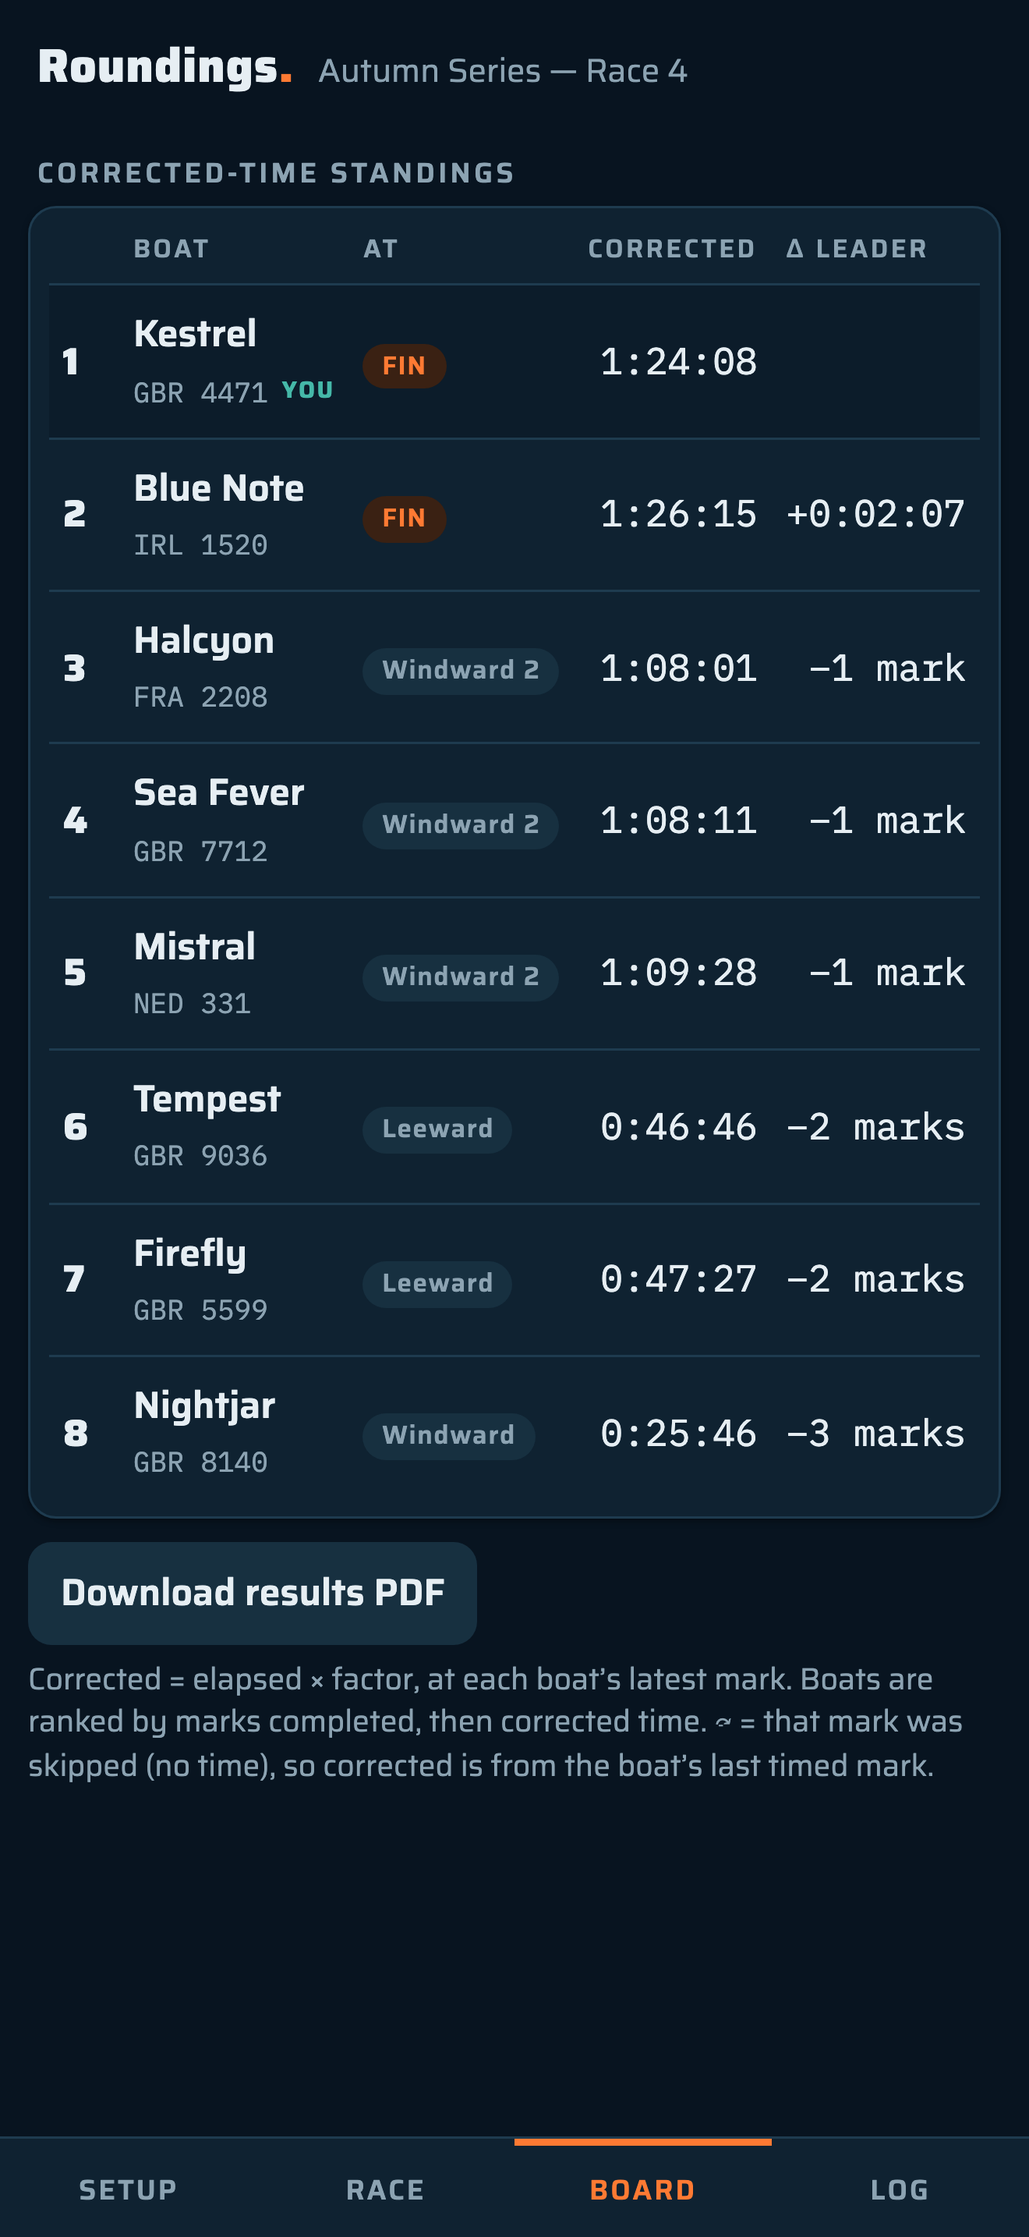
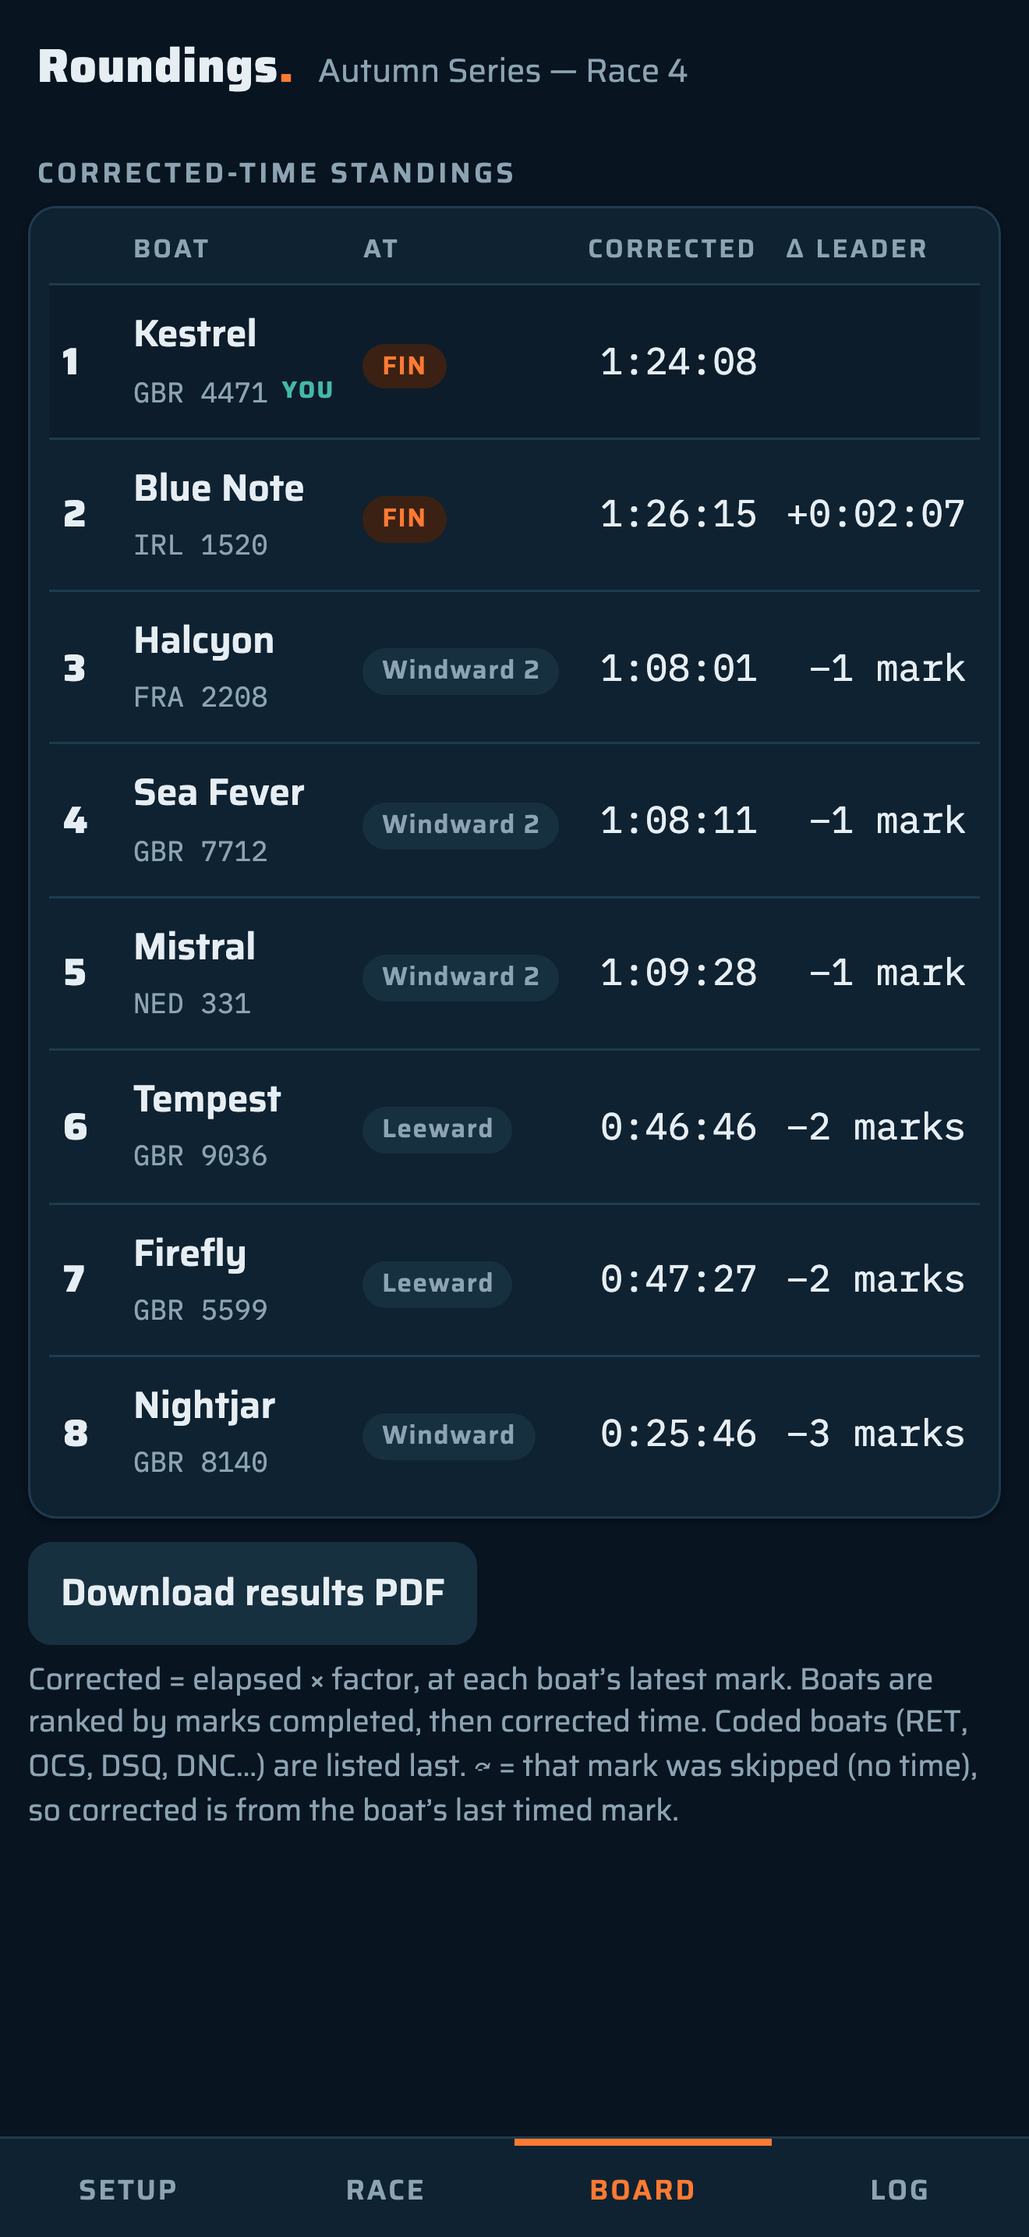
Scoring codes: RET, OCS, DSQ, DNC, DNS, DNF
- Code button on the race screen arms a mode where tapping any boat
  (including the own-boat PING) opens a chooser with the RRS codes;
  boats can also be coded from the edit dialog in Setup
- Coded boats rank behind every boat still racing, ordered DNC, DNS,
  OCS, RET, DNF, DSQ; the board shows the code instead of a corrected
  time, taps on them are refused, and Skip all leaves them alone
- CSV gains a Code column; PDF prints the code with its meaning
- store screenshots regenerated; sw CACHE v9

Claude-Session: https://claude.ai/code/session_01XpLpy3J2gh8zgNV43aJB8M

Changed region(s): [[0.0311, 0.7448, 0.9318, 0.8379]]

diff --git a/index.html b/index.html
@@ -114,6 +114,17 @@
   .boatbtn.done{opacity:.55}
   .boatbtn.done .next{color:var(--good)}
   .boatbtn.skipping{border:1px dashed var(--accent);background:var(--accent-soft)}
+  .boatbtn.coded{opacity:.6}
+  .boatbtn.coded .next{color:var(--bad)}
+  .boatbtn.coding{border:1px dashed var(--bad);background:var(--bad-soft);opacity:1}
+  #codeBtn.armed{background:var(--bad);color:#fff;border-color:var(--bad)}
+  #codeBanner{display:flex;align-items:center;gap:8px;flex-wrap:wrap;background:var(--bad-soft);
+    border:1px dashed var(--bad);border-radius:12px;padding:10px 12px;margin-bottom:10px;font-size:13px}
+  .chipm.code{background:var(--bad-soft);color:var(--bad)}
+  .codegrid{display:grid;grid-template-columns:1fr 1fr;gap:8px;margin:4px 0 12px}
+  .codegrid .btn{display:flex;flex-direction:column;align-items:flex-start;gap:2px;padding:10px 12px;text-align:left;font-size:15px}
+  .codegrid .btn small{font-weight:400;font-size:11px;color:var(--muted)}
+  .codegrid .btn.primary small{color:inherit;opacity:.85}
   .racefoot{display:flex;gap:8px;margin-top:12px}
   #skipBtn.armed{background:var(--accent);color:var(--accent-ink);border-color:var(--accent)}
   #skipBanner{display:flex;align-items:center;gap:8px;flex-wrap:wrap;background:var(--accent-soft);
@@ -318,6 +329,7 @@
         </div>
         <div class="grow"></div>
         <button class="btn quiet" id="skipBtn">Skip</button>
+        <button class="btn quiet" id="codeBtn">Code</button>
         <button class="btn quiet" id="undoBtn">Undo tap</button>
       </div>
       <div id="fleetStarts" hidden></div>
@@ -345,6 +357,10 @@
           <span class="grow">Skip mode — tapping a boat moves it past its next mark <b>without a time</b>. Use it when a rounding wasn't recorded.</span>
           <button class="btn" id="skipAllBtn">Skip all</button>
           <button class="btn primary" id="skipDoneBtn">Done</button>
+        </div>
+        <div id="codeBanner" hidden>
+          <span class="grow">Scoring code — tap a boat to mark it <b>RET, OCS, DSQ, DNC, DNS or DNF</b>. Coded boats are scored behind every boat still racing.</span>
+          <button class="btn primary" id="codeDoneBtn">Done</button>
         </div>
         <button id="pingBtn"></button>
         <div class="fleetgrid" id="fleetGrid"></div>
@@ -403,6 +419,7 @@
     <div><label class="f" for="bSail">Sail no.</label><input type="text" id="bSail"></div>
     <div><label class="f" for="bRating" id="bRatingLbl">Rating</label><input type="number" id="bRating" inputmode="decimal" step="0.0001"></div>
     <div class="full" id="bFleetWrap" hidden><label class="f" for="bFleet">Fleet</label><select id="bFleet"></select></div>
+    <div class="full"><label class="f" for="bCode">Scoring code</label><select id="bCode"></select></div>
     <div class="full"><label class="row" style="gap:6px"><input type="checkbox" id="bOwn"> This is my boat</label></div>
   </div>
   <div class="dfoot">
@@ -411,6 +428,16 @@
       <button class="btn quiet" id="bCancel">Cancel</button>
       <button class="btn primary" id="bSave">Save</button>
     </span>
+  </div>
+</dialog>
+
+<!-- Scoring code -->
+<dialog id="codeDlg">
+  <h3 id="codeDlgTitle">Scoring code</h3>
+  <div class="codegrid" id="codeGrid"></div>
+  <div class="dfoot">
+    <button class="btn danger" id="codeClear">Clear code</button>
+    <span><button class="btn quiet" id="codeCancel">Cancel</button></span>
   </div>
 </dialog>
 
@@ -475,6 +502,10 @@ const ORC_FIELDS={
        ["TND_Inshore_Low","Triple Number Windward/Leeward Low"],["TND_Inshore_Medium","Triple Number Windward/Leeward Medium"],["TND_Inshore_High","Triple Number Windward/Leeward High"]]
 };
 const ORC_CTYPES={INTL:'International',CLUB:'Club',NSIN:'Non Spinnaker International',NSCL:'Non Spinnaker Club',DHIN:'Double Handed International',DHCL:'Double Handed Club'};
+/* Racing Rules of Sailing scoring abbreviations (Appendix A). A coded boat ranks behind every boat still racing. */
+const CODES=[['DNC','Did not come to the starting area'],['DNS','Did not start'],['OCS','On the course side at the start'],['RET','Retired'],['DNF','Did not finish'],['DSQ','Disqualified']];
+const codeLabel=c=>(CODES.find(x=>x[0]===c)||[c,c])[1];
+const codeRank=c=>{ const i=CODES.findIndex(x=>x[0]===c); return i<0?CODES.length:i; };
 const CERT_FIELDS=[...new Set(Object.values(ORC_FIELDS).flat().map(x=>x[0]))]; // every scoring figure we keep per boat, so the fleet can be re-rated after the race
 
 function newRace(name){
@@ -539,9 +570,11 @@ function computeBoard(fleetId){
     const timed=[...rds].reverse().find(x=>!x.skipped)||null;
     let corr=null,noDist=false;
     if(timed){ const c=correctedAt(r,b,timed); if(c&&typeof c==='object'){corr=c.raw;noDist=true;} else corr=c; }
-    return { boat:b, count:rds.length, last, timed, corr, noDist, finished: last? last.markIdx>=finIdx : false };
+    return { boat:b, code:b.code||null, count:rds.length, last, timed, corr, noDist, finished: last? last.markIdx>=finIdx : false };
   });
   rows.sort((a,b)=>{
+    if(!!a.code!==!!b.code) return a.code?1:-1;
+    if(a.code&&b.code){ const d=codeRank(a.code)-codeRank(b.code); return d||a.boat.name.localeCompare(b.boat.name); }
     if(a.count!==b.count) return b.count-a.count;
     if(a.corr==null&&b.corr==null) return a.boat.name.localeCompare(b.boat.name);
     if(a.corr==null) return 1; if(b.corr==null) return -1;
@@ -554,7 +587,7 @@ function computeBoard(fleetId){
 let activeTab='setup';
 function setTab(t){
   activeTab=t;
-  if(t!=='race') skipMode=false;
+  if(t!=='race'){ skipMode=false; codeMode=false; }
   document.querySelectorAll('.view').forEach(v=>v.classList.toggle('active',v.id==='view-'+t));
   document.querySelectorAll('nav.tabs button').forEach(b=>b.classList.toggle('active',b.dataset.tab===t));
   renderAll();
@@ -597,7 +630,7 @@ function renderSetup(){
   $('#boatsList').innerHTML=r.boats.map(b=>{
     const fl=fs?boatFleet(r,b):null;
     return `<div class="item">
-      <span class="nm">${esc(b.name)} ${b.own?'<span class="ownflag">MY BOAT</span>':''}</span>
+      <span class="nm">${esc(b.name)} ${b.own?'<span class="ownflag">MY BOAT</span>':''}${b.code?' <span class="chipm code">'+b.code+'</span>':''}</span>
       <span class="meta mono">${fl?esc(fl.name)+' · ':''}${esc(b.sail||'')} · ${b.rating!=null?b.rating:'no rating'}</span>
       <button class="iconb" data-bedit="${b.id}" title="Edit">✎</button>
     </div>`;
@@ -642,14 +675,18 @@ function renderRace(){
   if(started){
     $('#skipBanner').hidden=!skipMode;
     $('#skipBtn').classList.toggle('armed',skipMode);
+    $('#codeBanner').hidden=!codeMode;
+    $('#codeBtn').classList.toggle('armed',codeMode);
     const own=r.boats.find(b=>b.own);
     const ping=$('#pingBtn');
     if(own){
       const rds=boatRoundings(r,own.id); const next=rds.length;
       const fin=next>=r.marks.length;
       const ownStart=startFor(r,own);
-      ping.disabled=fin||ownStart==null;
-      ping.innerHTML=fin?`${esc(own.name)} finished ✓`
+      ping.disabled=codeMode?false:(!!own.code||fin||ownStart==null);
+      ping.innerHTML=codeMode?`Code — ${esc(own.name)}<small>${own.code?own.code+' · tap to change':'tap to set RET, OCS, DSQ…'}</small>`
+        :own.code?`${esc(own.name)} — ${own.code}<small>${esc(codeLabel(own.code))}</small>`
+        :fin?`${esc(own.name)} finished ✓`
         :ownStart==null?`${esc(own.name)} — waiting for ${esc(boatFleet(r,own)?.name||'start')}`
         :skipMode?`Skip ${esc(markLabel(r,next))} — ${esc(own.name)}`
         :`Ping — ${esc(own.name)}<small>next: ${esc(markLabel(r,next))}</small>`;
@@ -663,10 +700,11 @@ function renderRace(){
       const last=rds[rds.length-1];
       const fl=fs?boatFleet(r,b):null;
       const lastTxt=last?`${esc(markLabel(r,last.markIdx))} ${last.skipped?'skipped':fmtDur(last.t-bStart)}`:'';
-      return `<button class="boatbtn ${fin?'done':''} ${skipMode&&!fin&&!waiting?'skipping':''}" data-tap="${b.id}" ${fin||waiting?'disabled':''}>
+      const coded=!!b.code;
+      return `<button class="boatbtn ${fin&&!coded?'done':''} ${coded?'coded':''} ${skipMode&&!fin&&!waiting&&!coded?'skipping':''} ${codeMode?'coding':''}" data-tap="${b.id}" ${!codeMode&&(fin||waiting||coded)?'disabled':''}>
         <span class="bn">${esc(b.name)}</span>
         <span class="bs">${fl?esc(fl.name)+' · ':''}${esc(b.sail||'')}${lastTxt?' · '+lastTxt:''}</span>
-        <span class="next">${fin?'Finished ✓':waiting?'awaiting start':(skipMode?'⤼ skip ':'→ ')+esc(markLabel(r,next))}</span></button>`;
+        <span class="next">${codeMode?'⚑ '+(coded?b.code+' · change':'set code'):coded?b.code+' — '+esc(codeLabel(b.code)):fin?'Finished ✓':waiting?'awaiting start':(skipMode?'⤼ skip ':'→ ')+esc(markLabel(r,next))}</span></button>`;
     }).join('');
   }
   if(tick) clearInterval(tick);
@@ -741,20 +779,20 @@ function updateClock(){
 }
 
 function boardTableHTML(r,rows){
-  let leaderCorr=null,leaderCount=null,leaderMark=null;
+  let leader=null;
   const body=rows.map((x,i)=>{
-    if(i===0){leaderCorr=x.corr;leaderCount=x.count;leaderMark=x.timed?x.timed.markIdx:null;}
+    if(!leader&&!x.code) leader=x;
     let delta='';
-    if(i>0&&x.corr!=null&&leaderCorr!=null){
-      if(x.count!==leaderCount) delta='−'+(leaderCount-x.count)+' mark'+(leaderCount-x.count>1?'s':'');
-      else if(x.timed&&x.timed.markIdx===leaderMark) delta='+'+fmtDur(x.corr-leaderCorr);
+    if(!x.code&&leader&&x!==leader&&x.corr!=null&&leader.corr!=null){
+      if(x.count!==leader.count) delta='−'+(leader.count-x.count)+' mark'+(leader.count-x.count>1?'s':'');
+      else if(x.timed&&leader.timed&&x.timed.markIdx===leader.timed.markIdx) delta='+'+fmtDur(x.corr-leader.corr);
     }
     const mk=x.last? `<span class="chipm ${x.finished?'fin':''}">${(x.finished?'FIN':esc(markLabel(r,x.last.markIdx)))+(x.last.skipped?' ⤼':'')}</span>`:'<span class="chipm">—</span>';
     return `<tr class="${x.boat.own?'own':''}">
-      <td class="pos">${x.last?i+1:''}</td>
+      <td class="pos">${x.last&&!x.code?i+1:''}</td>
       <td class="name"><span class="bname">${esc(x.boat.name)}</span><br><span class="bsail mono">${esc(x.boat.sail||'')}</span></td>
       <td>${mk}</td>
-      <td class="ct mono">${x.corr!=null?fmtDur(x.corr)+(x.noDist?'*':''):'—'}</td>
+      <td class="ct mono">${x.code?'<span class="chipm code" title="'+esc(codeLabel(x.code))+'">'+x.code+'</span>':x.corr!=null?fmtDur(x.corr)+(x.noDist?'*':''):'—'}</td>
       <td class="dt mono">${delta}</td></tr>`;
   }).join('');
   return `<table class="board"><thead><tr><th></th><th>Boat</th><th>At</th><th class="ct">Corrected</th><th class="dt">Δ leader</th></tr></thead><tbody>${body}</tbody></table>`;
@@ -780,7 +818,7 @@ function renderBoard(){
   $('#boardHint').textContent =
     (r.scoring==='tot'?'Corrected = elapsed × factor, at each boat’s latest mark. ':'Corrected = elapsed − rating × cumulative NM. ')+
     (fs?'Each fleet is scored from its own start. ':'')+
-    'Boats are ranked by marks completed, then corrected time. ⤼ = that mark was skipped (no time), so corrected is from the boat’s last timed mark.'+(anyNoDist?' *No distance set for that mark — showing raw elapsed.':'');
+    'Boats are ranked by marks completed, then corrected time. Coded boats (RET, OCS, DSQ, DNC…) are listed last. ⤼ = that mark was skipped (no time), so corrected is from the boat’s last timed mark.'+(anyNoDist?' *No distance set for that mark — showing raw elapsed.':'');
 }
 
 function renderLog(){
@@ -916,6 +954,8 @@ function openBoatDlg(id){
   $('#bRatingLbl').textContent=r.scoring==='tot'?'Factor (ToT / TCC)':'Rating (s/NM)';
   $('#bRating').step=r.scoring==='tot'?'0.0001':'0.1';
   $('#bOwn').checked=b?!!b.own:false;
+  $('#bCode').innerHTML='<option value="">None — racing</option>'+CODES.map(([c,l])=>`<option value="${c}">${c} — ${esc(l)}</option>`).join('');
+  $('#bCode').value=b&&b.code?b.code:'';
   const fs=fleetsOf(r);
   $('#bFleetWrap').hidden=!fs;
   if(fs) fillFleetSelect($('#bFleet'), b?effFleetId(r,b):fs[0].id);
@@ -928,7 +968,7 @@ $('#bCancel').addEventListener('click',()=>$('#boatDlg').close());
 $('#bSave').addEventListener('click',()=>{
   const r=race(); const name=$('#bName').value.trim(); if(!name){toast('Boat needs a name');return;}
   const rating=parseFloat($('#bRating').value);
-  const data={name,sail:$('#bSail').value.trim(),rating:isFinite(rating)?rating:null,own:$('#bOwn').checked};
+  const data={name,sail:$('#bSail').value.trim(),rating:isFinite(rating)?rating:null,own:$('#bOwn').checked,code:$('#bCode').value||null};
   if(fleetsOf(r)) data.fleetId=$('#bFleet').value;
   if(data.own) r.boats.forEach(b=>b.own=false);
   if(editBoatId){ Object.assign(r.boats.find(x=>x.id===editBoatId),data); }
@@ -1179,11 +1219,12 @@ $('#fleetStarts').addEventListener('click',e=>{
     f.seq=null; save(); renderRace();
   }
 });
-let skipMode=false;
+let skipMode=false, codeMode=false, codeBoatId=null;
 let lastSkip={id:null,at:0};
 function recordTap(boatId){
   const r=race();
   const b=r.boats.find(x=>x.id===boatId); if(!b) return;
+  if(b.code){ toast(b.name+' is '+b.code+' — use Code to clear it before logging roundings'); return; }
   const bStart=startFor(r,b);
   if(bStart==null){ if(fleetsOf(r)&&raceStarted(r)) toast((boatFleet(r,b)?.name||'That fleet')+' has not started yet'); return; }
   const rds=boatRoundings(r,boatId);
@@ -1205,13 +1246,32 @@ function recordTap(boatId){
   toast(b.name+' — '+markLabel(r,rds.length)+' @ '+fmtDur(now-bStart));
   renderRace();
 }
-$('#skipBtn').addEventListener('click',()=>{ skipMode=!skipMode; renderRace(); });
+$('#skipBtn').addEventListener('click',()=>{ skipMode=!skipMode; if(skipMode) codeMode=false; renderRace(); });
+$('#codeBtn').addEventListener('click',()=>{ codeMode=!codeMode; if(codeMode) skipMode=false; renderRace(); });
+$('#codeDoneBtn').addEventListener('click',()=>{ codeMode=false; renderRace(); });
+function openCodeDlg(id){
+  const b=race().boats.find(x=>x.id===id); if(!b) return;
+  codeBoatId=id;
+  $('#codeDlgTitle').textContent=b.name+' — scoring code';
+  $('#codeGrid').innerHTML=CODES.map(([c,l])=>`<button class="btn ${b.code===c?'primary':''}" data-code="${c}"><b>${c}</b><small>${esc(l)}</small></button>`).join('');
+  $('#codeClear').hidden=!b.code;
+  $('#codeDlg').showModal();
+}
+function setCode(id,code){
+  const b=race().boats.find(x=>x.id===id); if(!b) return;
+  b.code=code; save(); $('#codeDlg').close();
+  toast(b.name+(code?' — '+code+' ('+codeLabel(code)+')':' — code cleared, racing again'));
+  renderAll();
+}
+$('#codeGrid').addEventListener('click',e=>{ const t=e.target.closest('[data-code]'); if(t) setCode(codeBoatId,t.dataset.code); });
+$('#codeClear').addEventListener('click',()=>setCode(codeBoatId,null));
+$('#codeCancel').addEventListener('click',()=>$('#codeDlg').close());
 $('#skipDoneBtn').addEventListener('click',()=>{ skipMode=false; renderRace(); });
 $('#skipAllBtn').addEventListener('click',()=>{
   const r=race();
   let n=0;
   r.boats.forEach(b=>{
-    if(startFor(r,b)==null) return; // fleet not started yet
+    if(startFor(r,b)==null||b.code) return; // fleet not started yet, or boat is coded
     const rds=boatRoundings(r,b.id);
     if(rds.length>=r.marks.length) return;
     r.roundings.push({id:uid(),boatId:b.id,markIdx:rds.length,t:null,skipped:true});
@@ -1222,8 +1282,8 @@ $('#skipAllBtn').addEventListener('click',()=>{
   toast(n+' boat'+(n===1?'':'s')+' moved past their next mark — Undo reverses one at a time');
   renderRace();
 });
-$('#fleetGrid').addEventListener('click',e=>{ const t=e.target.closest('[data-tap]'); if(t) recordTap(t.dataset.tap); });
-$('#pingBtn').addEventListener('click',e=>{ const id=e.currentTarget.dataset.boat; if(id) recordTap(id); });
+$('#fleetGrid').addEventListener('click',e=>{ const t=e.target.closest('[data-tap]'); if(t) (codeMode?openCodeDlg:recordTap)(t.dataset.tap); });
+$('#pingBtn').addEventListener('click',e=>{ const id=e.currentTarget.dataset.boat; if(id) (codeMode?openCodeDlg:recordTap)(id); });
 $('#undoBtn').addEventListener('click',()=>{
   const r=race();
   if(!r.roundings.length){ toast('Nothing to undo'); return; }
@@ -1321,12 +1381,12 @@ $('#copyCsvBtn').addEventListener('click',async()=>{
   const lines=[];
   (fs||[null]).forEach(f=>{
     if(f) lines.push('Fleet,'+csv(f.name)+',start,'+(f.start!=null?fmtClockTime(f.start):'not started'));
-    lines.push(['Pos','Boat','Sail','Rating','Start','Marks completed','Last mark','Elapsed','Corrected'].join(','));
+    lines.push(['Pos','Boat','Sail','Rating','Start','Marks completed','Last mark','Elapsed','Corrected','Code'].join(','));
     computeBoard(f?f.id:null).forEach((x,i)=>{
       const st=startFor(r,x.boat);
-      lines.push([x.last?i+1:'',csv(x.boat.name),csv(x.boat.sail),x.boat.rating??'',st!=null?fmtClockTime(st):'',x.count,
+      lines.push([x.last&&!x.code?i+1:'',csv(x.boat.name),csv(x.boat.sail),x.boat.rating??'',st!=null?fmtClockTime(st):'',x.count,
         x.last?csv(markLabel(r,x.last.markIdx)+(x.last.skipped?' (skipped)':'')):'',
-        x.timed&&st!=null?fmtDur(x.timed.t-st):'', x.corr!=null?fmtDur(x.corr):''].join(','));
+        x.timed&&st!=null?fmtDur(x.timed.t-st):'', x.code?'':x.corr!=null?fmtDur(x.corr):'', x.code||''].join(','));
     });
     lines.push('');
   });
@@ -1355,23 +1415,23 @@ function loadPdfLib(){
 }
 function pdfRows(r,rows){
   const finIdx=r.marks.length-1;
-  let leaderCorr=null,leaderCount=null,leaderMark=null;
+  let leader=null;
   return rows.map((x,i)=>{
-    if(i===0){leaderCorr=x.corr;leaderCount=x.count;leaderMark=x.timed?x.timed.markIdx:null;}
+    if(!leader&&!x.code) leader=x;
     let delta='';
-    if(i>0&&x.corr!=null&&leaderCorr!=null){
-      if(x.count!==leaderCount) delta='-'+(leaderCount-x.count)+' mark'+(leaderCount-x.count>1?'s':'');
-      else if(x.timed&&x.timed.markIdx===leaderMark) delta='+'+fmtDur(x.corr-leaderCorr).replace('−','-');
+    if(!x.code&&leader&&x!==leader&&x.corr!=null&&leader.corr!=null){
+      if(x.count!==leader.count) delta='-'+(leader.count-x.count)+' mark'+(leader.count-x.count>1?'s':'');
+      else if(x.timed&&leader.timed&&x.timed.markIdx===leader.timed.markIdx) delta='+'+fmtDur(x.corr-leader.corr).replace('−','-');
     }
     const st=startFor(r,x.boat);
     const fin=(x.finished&&x.timed&&x.timed.markIdx===finIdx)?x.timed:null;
-    return [x.last?String(i+1):'-',
+    return [x.last&&!x.code?String(i+1):'-',
       x.boat.name+(x.boat.sail?'\n'+x.boat.sail:''),
       x.boat.rating!=null?String(x.boat.rating):'-',
       st!=null?fmtClockTime(st):'-',
       fin?fmtClockTime(fin.t):(x.last?'at '+markLabel(r,x.last.markIdx)+(x.last.skipped?' (skipped)':''):'-'),
       fin&&st!=null?fmtDur(fin.t-st):'-',
-      x.corr!=null?fmtDur(x.corr).replace('−','-')+(x.noDist?'*':''):'-',
+      x.code?x.code+' ('+codeLabel(x.code)+')':x.corr!=null?fmtDur(x.corr).replace('−','-')+(x.noDist?'*':''):'-',
       delta];
   });
 }

diff --git a/sw.js b/sw.js
@@ -1,4 +1,4 @@
-const CACHE = 'roundings-v8';
+const CACHE = 'roundings-v9';
 const PRECACHE = ['vendor/fonts/fonts.css', 'vendor/fonts/IBMPlexMono-400-latin-ext.woff2', 'vendor/fonts/IBMPlexMono-400-latin.woff2', 'vendor/fonts/IBMPlexMono-600-latin-ext.woff2', 'vendor/fonts/IBMPlexMono-600-latin.woff2', 'vendor/fonts/Saira-400-latin-ext.woff2', 'vendor/fonts/Saira-400-latin.woff2', 'vendor/fonts/Saira-500-latin-ext.woff2', 'vendor/fonts/Saira-500-latin.woff2', 'vendor/fonts/Saira-600-latin-ext.woff2', 'vendor/fonts/Saira-600-latin.woff2', 'vendor/fonts/Saira-700-latin-ext.woff2', 'vendor/fonts/Saira-700-latin.woff2', 'vendor/fonts/Saira-800-latin-ext.woff2', 'vendor/fonts/Saira-800-latin.woff2',
   './', 'index.html', 'manifest.webmanifest', 'icon-192.png', 'icon-512.png', 'apple-touch-icon.png',
   'vendor/jspdf.umd.min.js', 'vendor/jspdf.plugin.autotable.min.js'];
